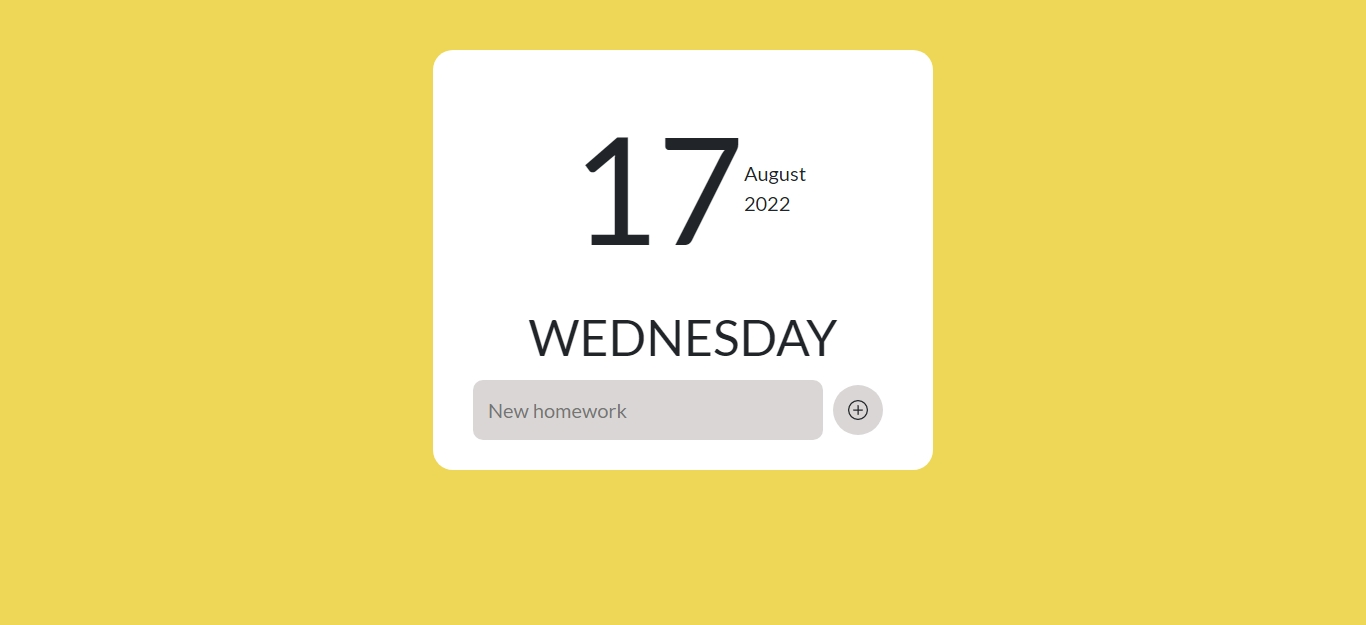
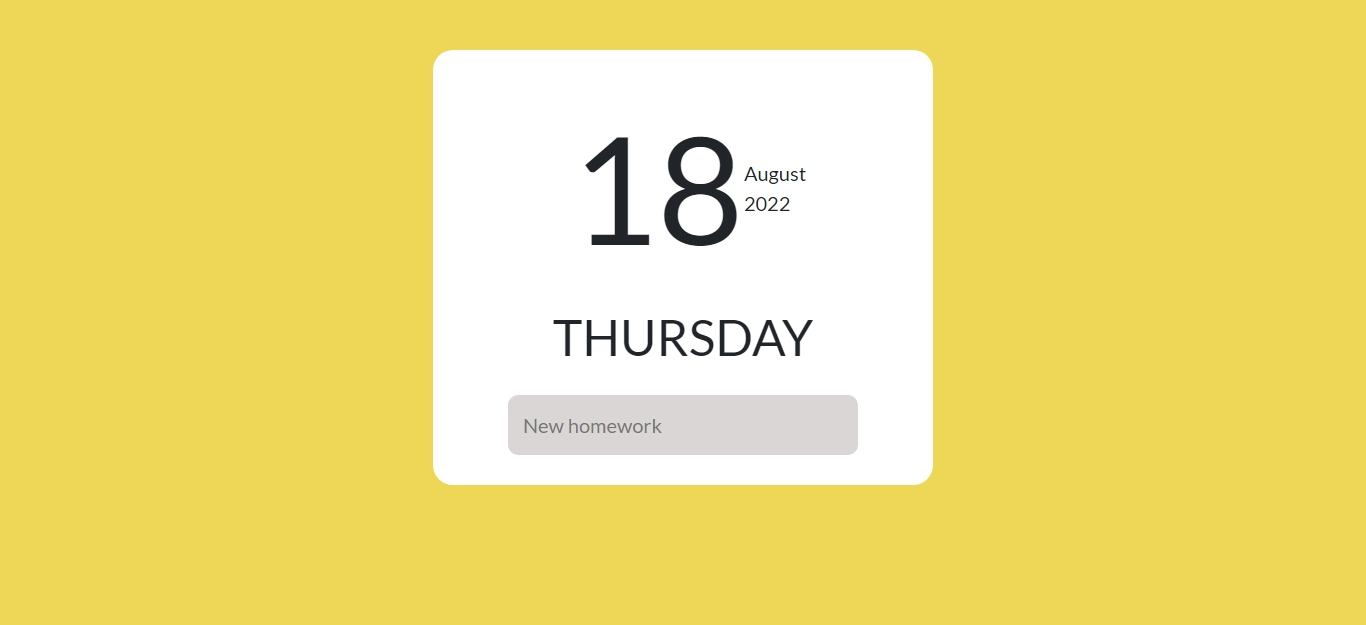
fixed responsive

Changed region(s): [[0.3075, 0.608, 0.7072, 0.7904], [0.369, 0.4864, 0.6149, 0.5776], [0.4612, 0.2128, 0.5534, 0.3952]]

diff --git a/sass/index.scss b/sass/index.scss
@@ -11,26 +11,14 @@ $light: #fff;
     justify-content: $justify;
 }
 
+
 body {
     font-family: 'Lato', sans-serif;
     margin: 0;
-    height: 50rem;
 
     background-size: cover;
     background-color: $primary;
     background-repeat: no-repeat;
-    
-    @media screen and (max-width: 736px) {
-        body {
-            font-family: 'Lato', sans-serif;
-            margin: 0;
-            height: 50rem;
-    
-            background-size: cover;
-            background-color: $primary;
-            background-repeat: no-repeat;
-        }
-    }
     
     .list {
         margin: 50px auto;
@@ -38,6 +26,10 @@ body {
         max-width: 50rem;
         border-radius: 2rem;
         background-color: $light;
+
+        @media screen and (max-width: 800px) {
+            margin: 50px;
+        }
         
         .date {
             @include disFlex(flex, column, center, center);
@@ -57,6 +49,7 @@ body {
             }
 
             #dateText {
+                margin-bottom: 2rem;
                 font-size: 5rem;
                 text-transform: uppercase;
             }

diff --git a/sass/index.css b/sass/index.css
@@ -1,20 +1,9 @@
 body {
   font-family: "Lato", sans-serif;
   margin: 0;
-  height: 50rem;
   background-size: cover;
   background-color: #eed757;
   background-repeat: no-repeat;
-}
-@media screen and (max-width: 736px) {
-  body body {
-    font-family: "Lato", sans-serif;
-    margin: 0;
-    height: 50rem;
-    background-size: cover;
-    background-color: #eed757;
-    background-repeat: no-repeat;
-  }
 }
 body .list {
   margin: 50px auto;
@@ -22,6 +11,11 @@ body .list {
   max-width: 50rem;
   border-radius: 2rem;
   background-color: #fff;
+}
+@media screen and (max-width: 800px) {
+  body .list {
+    margin: 50px;
+  }
 }
 body .list .date {
   display: flex;
@@ -44,6 +38,7 @@ body .list .date .firstDate .smallDate {
   font-size: 2rem;
 }
 body .list .date #dateText {
+  margin-bottom: 2rem;
   font-size: 5rem;
   text-transform: uppercase;
 }

diff --git a/js/index.js b/js/index.js
@@ -5,7 +5,6 @@ dateYear = document.getElementById('dateYear'),
 dateText = document.getElementById('dateText'),
 tasksContainer = document.getElementById('tasksContainer');
 
-
 const setDate = () => {
     const date = new Date();
     dateNumber.textContent = date.toLocaleString('en', { day: 'numeric' });
@@ -26,21 +25,9 @@ const addNewTask = event => {
     event.target.reset();
 };
 
+
 const changeTaskState = event => {
     event.target.classList.toggle('done');
 };
-
-const order = () => {
-    const done = [];
-    const toDo = [];
-    tasksContainer.childNodes.forEach( el => {
-        el.classList.contains('done') ? done.push(el) : toDo.push(el)
-    })
-    return [...toDo, ...done];
-}
-
-const renderOrderedTasks = () => {
-    order().forEach(el => tasksContainer.appendChild(el))
-}
 
 setDate();

diff --git a/index.html b/index.html
@@ -26,12 +26,6 @@
         </div>
         <form onsubmit="addNewTask(event)" >
             <input type="text" name="taskText" autocomplete="off" placeholder="New homework" class="roundBorder">
-            <button type="button" class="addTaskButton" id="addTaskButton">
-                <svg xmlns="http://www.w3.org/2000/svg" width="20" height="20" fill="currentColor" class="bi bi-plus-circle" viewBox="0 0 16 16">
-                    <path d="M8 15A7 7 0 1 1 8 1a7 7 0 0 1 0 14zm0 1A8 8 0 1 0 8 0a8 8 0 0 0 0 16z"/>
-                    <path d="M8 4a.5.5 0 0 1 .5.5v3h3a.5.5 0 0 1 0 1h-3v3a.5.5 0 0 1-1 0v-3h-3a.5.5 0 0 1 0-1h3v-3A.5.5 0 0 1 8 4z"/>
-                </svg>
-            </button>
         </form>
         <div id="tasksContainer"></div>
     </div>
